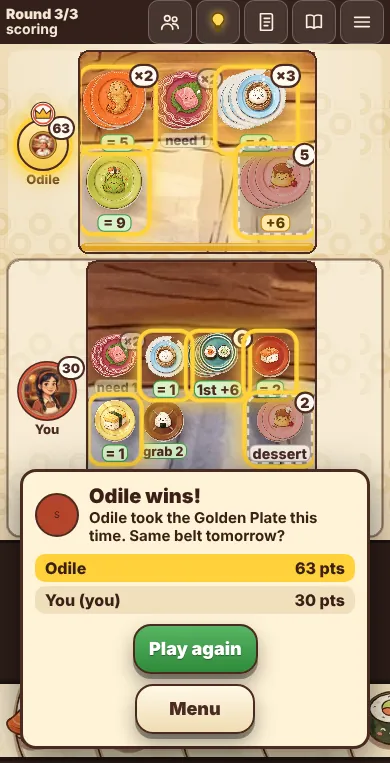
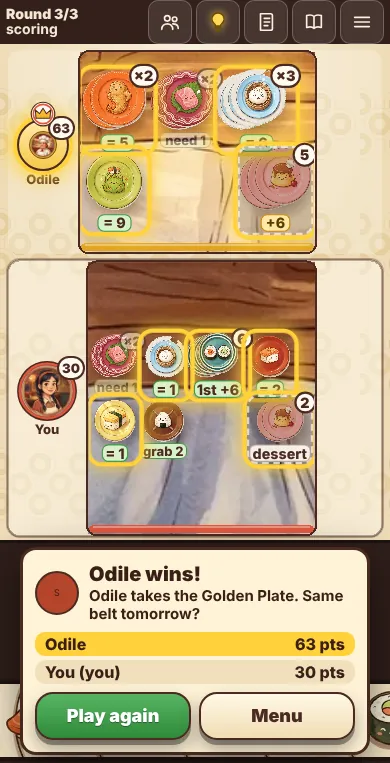
Kaiten Kitchen: compact result card at the bottom, 8-word result lines (sweep clean)

Changed region(s): [[0.0, 0.6029, 1.0, 0.9948]]

diff --git a/games-src/kaiten/game/skin.css b/games-src/kaiten/game/skin.css
@@ -88,7 +88,8 @@ html .gxh-bub .gxh-tx{font-size:15px!important;line-height:1.25!important}
 html .gxh-bub .gxh-tt{font-size:16px!important}
 html .gxt-bub .gxh-tx{padding-right:0!important}
 /* result card */
-#rs.kkfin .rsbox.bar{flex-direction:column;align-items:center;gap:10px;background:#fff3d6;border:3px solid #4a2a22;border-radius:16px;padding:12px;width:min(350px,calc(100vw - 20px));pointer-events:auto;box-shadow:0 14px 44px rgba(0,0,0,.55)}
+#rs.kkfin{align-items:flex-end!important;padding-bottom:8px!important}
+#rs.kkfin .rsbox.bar{flex-flow:row wrap;align-items:center;justify-content:center;gap:8px;background:#fff3d6;border:3px solid #4a2a22;border-radius:16px;padding:12px;width:min(350px,calc(100vw - 20px));pointer-events:auto;box-shadow:0 14px 44px rgba(0,0,0,.55)}
 #rs.kkfin .rsbox.bar .btn{min-height:50px;min-width:120px;font-size:18px}
 .kkres{width:100%;color:#3a1f17}
 .kkr1{display:flex;gap:10px;align-items:center}
@@ -127,3 +128,8 @@ html button[data-gxt-open] b,html button[data-gxt-open] span{color:#fff;opacity:
 .shead{flex-wrap:wrap}
 .ctr .none{background:#fff3d6;padding:1px 8px;border-radius:8px}
 .rules p{padding:4px 8px;border-radius:8px}
+
+#rs.kkfin .kkres{flex-basis:100%}
+#rs.kkfin .rsbox.bar .btn{flex:1 1 0;min-width:0;min-height:48px}
+.kkrs{flex-direction:column}
+.kkrs li{padding:2px 10px}

diff --git a/games-src/kaiten/game/src/story.js b/games-src/kaiten/game/src/story.js
@@ -6,7 +6,7 @@ KK.STORY = {
   rivalId: 'odile',
   // one line in the game's own voice when a Quick game starts and ends
   quickIntro: 'Welcome to the Turning Plate. The belt rolls!',
-  quickResult: { win: 'You cleared the belt. Auntie Suzu would be proud.', lose: '%R took the Golden Plate this time. Same belt tomorrow?', tie: 'A dead heat. The belt keeps turning.' },
+  quickResult: { win: 'You cleared the belt. Auntie Suzu is proud.', lose: '%R takes the Golden Plate. Same belt tomorrow?', tie: 'A dead heat. The belt keeps turning.' },
   // Help opens with these five lines
   turn: ['1. Everyone looks at their own hand of plates.', '2. Pick ONE plate. Everybody picks at the same time.', '3. The covers lift, one diner after another, and each plate lands on its owner\'s counter.', '4. Your points pop up with the reason.', '5. Your leftover hand slides to the next diner, theirs comes to you. Repeat until the hands are empty.'],
   // the live-turn instruction line (banner | text, 8 words at most together: gate rule 5); %N = next diner, %R = a rival

diff --git a/games-src/kaiten/PLAYABLE.md b/games-src/kaiten/PLAYABLE.md
@@ -32,6 +32,7 @@ Tests: `game/tutorial-end.js` (tutorial to the end, both sizes), `game/play-ui.j
   Story stage 1 reach their result by taps on visible, uncovered UI), `rules-test.js` 90/90.
 
 ## Gate results
+- `sweep.js` (full game through the page, touch taps only, 390x763): SWEEP CLEAN (it caught two real issues in my result card, fixed: card covered a seat, line over 8 words).
 - build-all `--quick` PASS (scenarios 9/9, one instruction line of 8 words or fewer, text >= 14px on the board).
 - ui-audit A, C, D, E, F: 0 on phone, phone-s and pc. Rule B (contrast / busy background) still reports 3 on phone, 1 on phone-s, 5 on pc, all in places this
   pass did not redesign: the Menu panel's "New here?" button (audit reads it as 2.4-2.8:1 although the painted button is white on dark red, 8:1 by computation),
